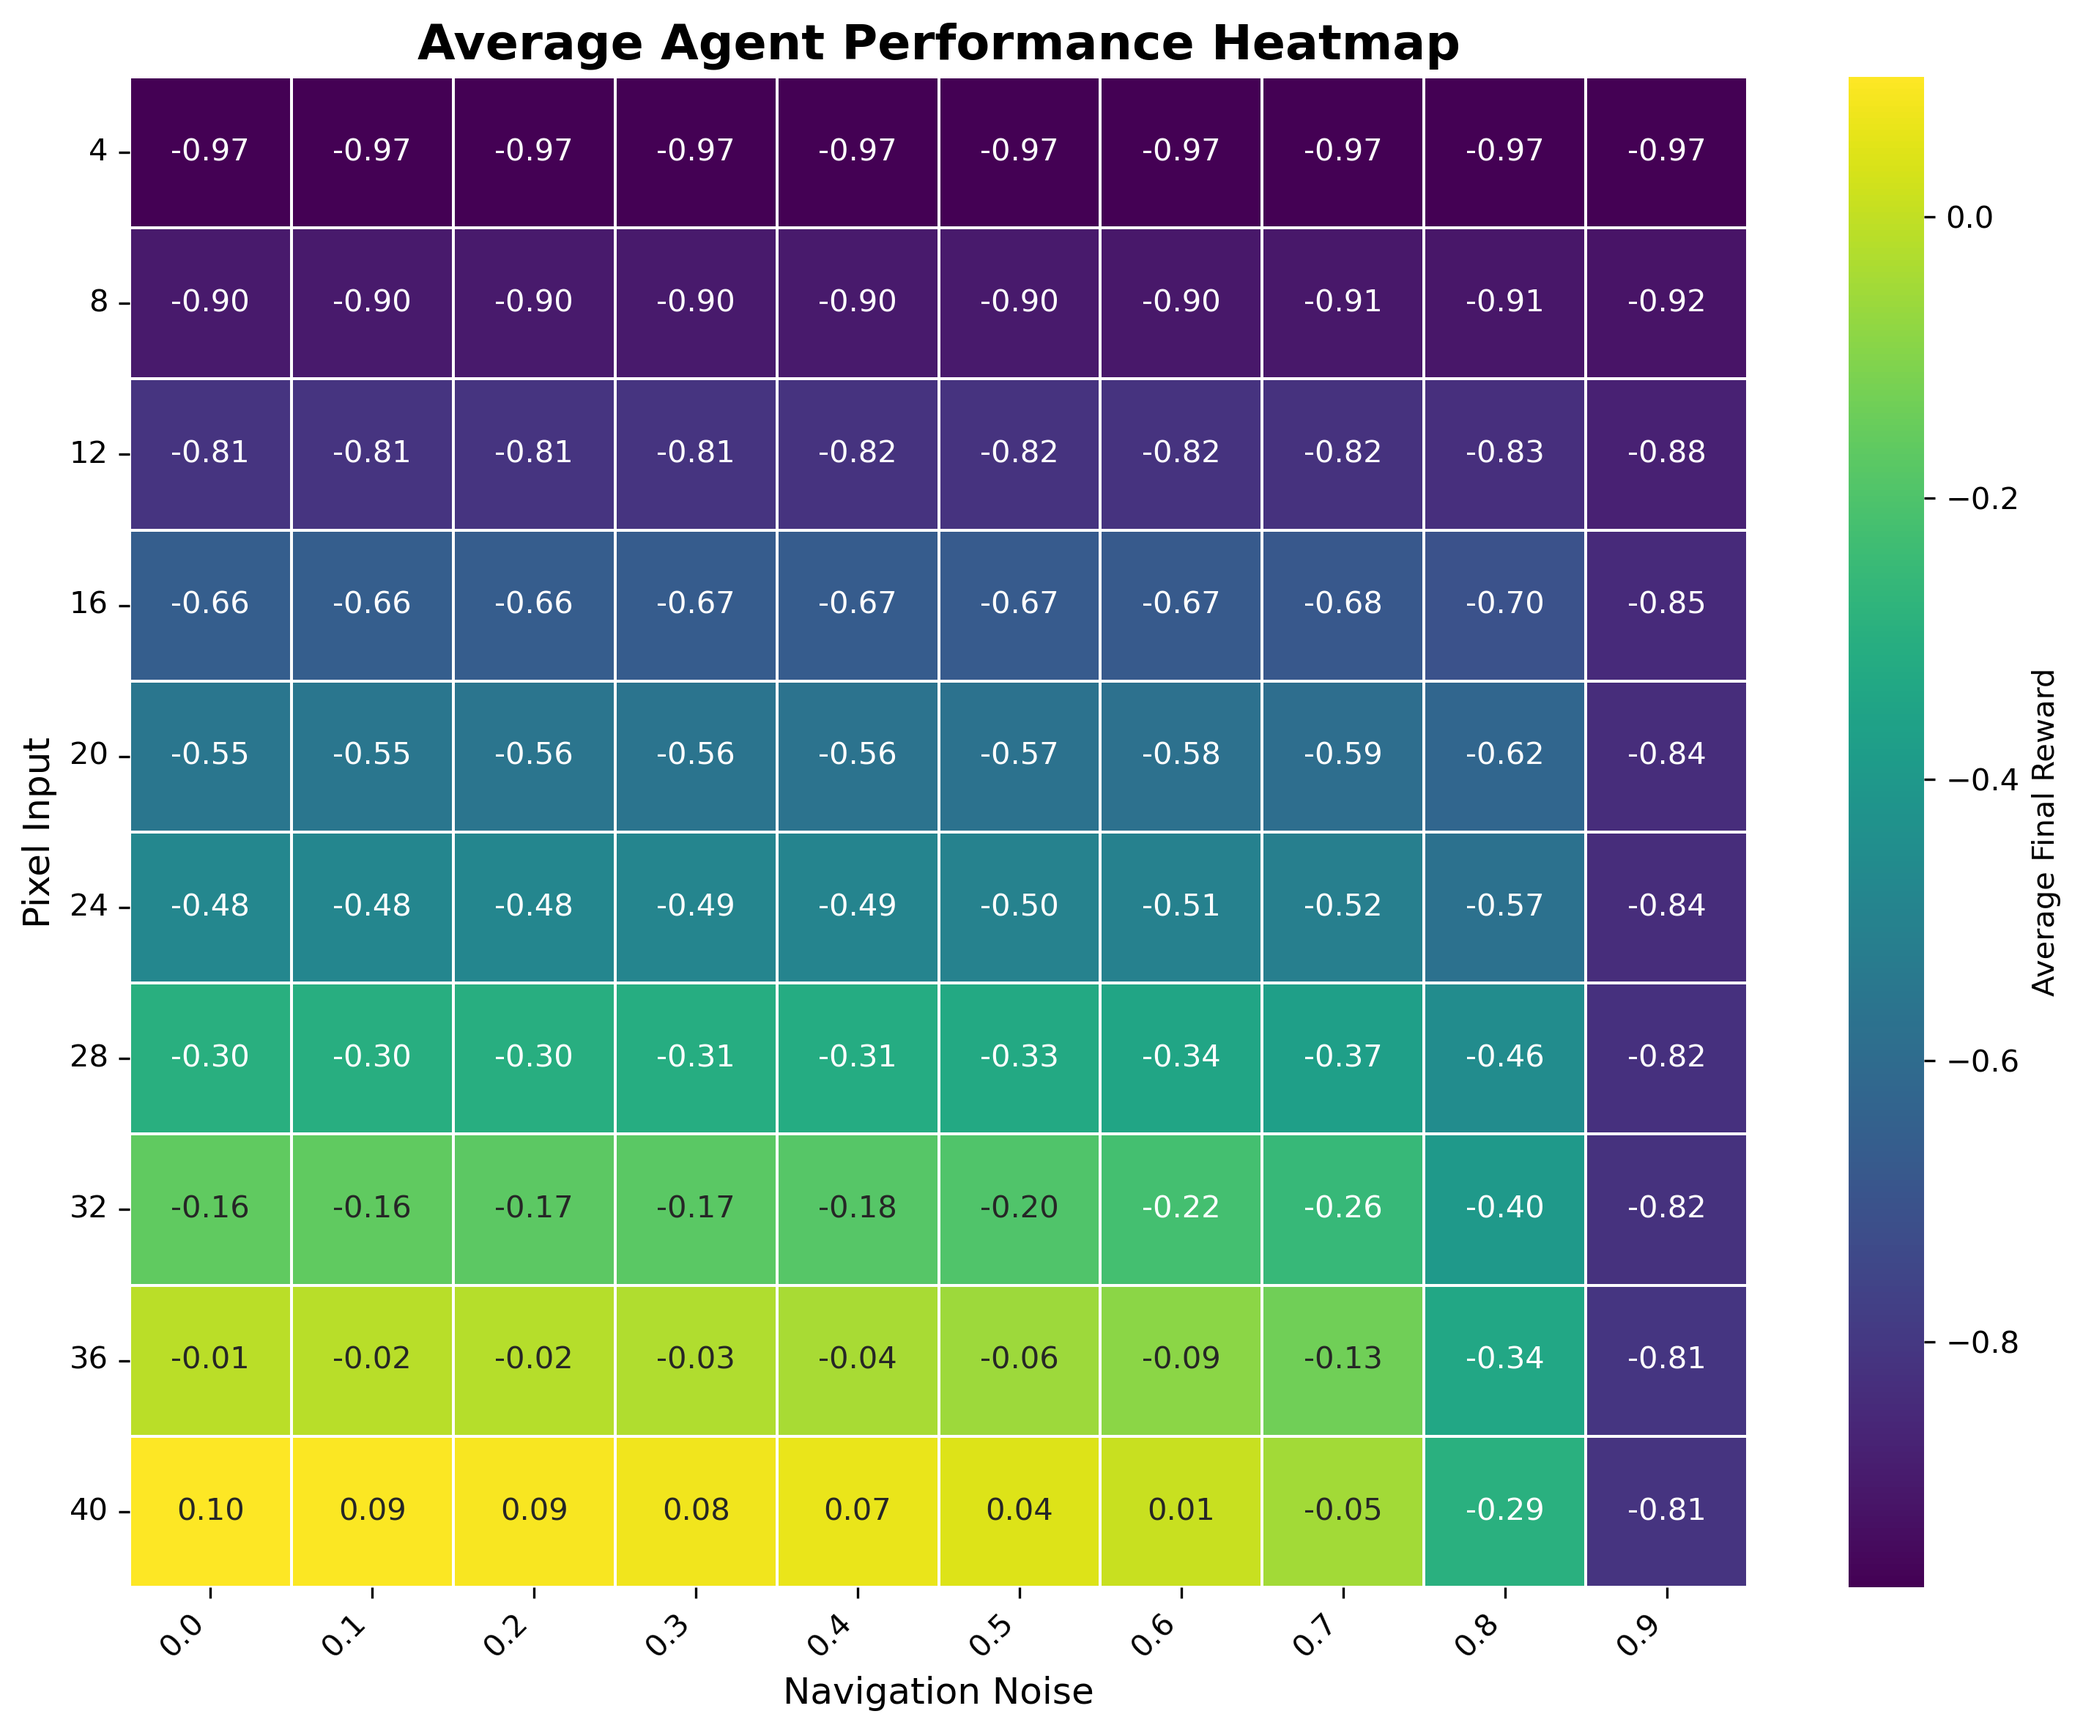
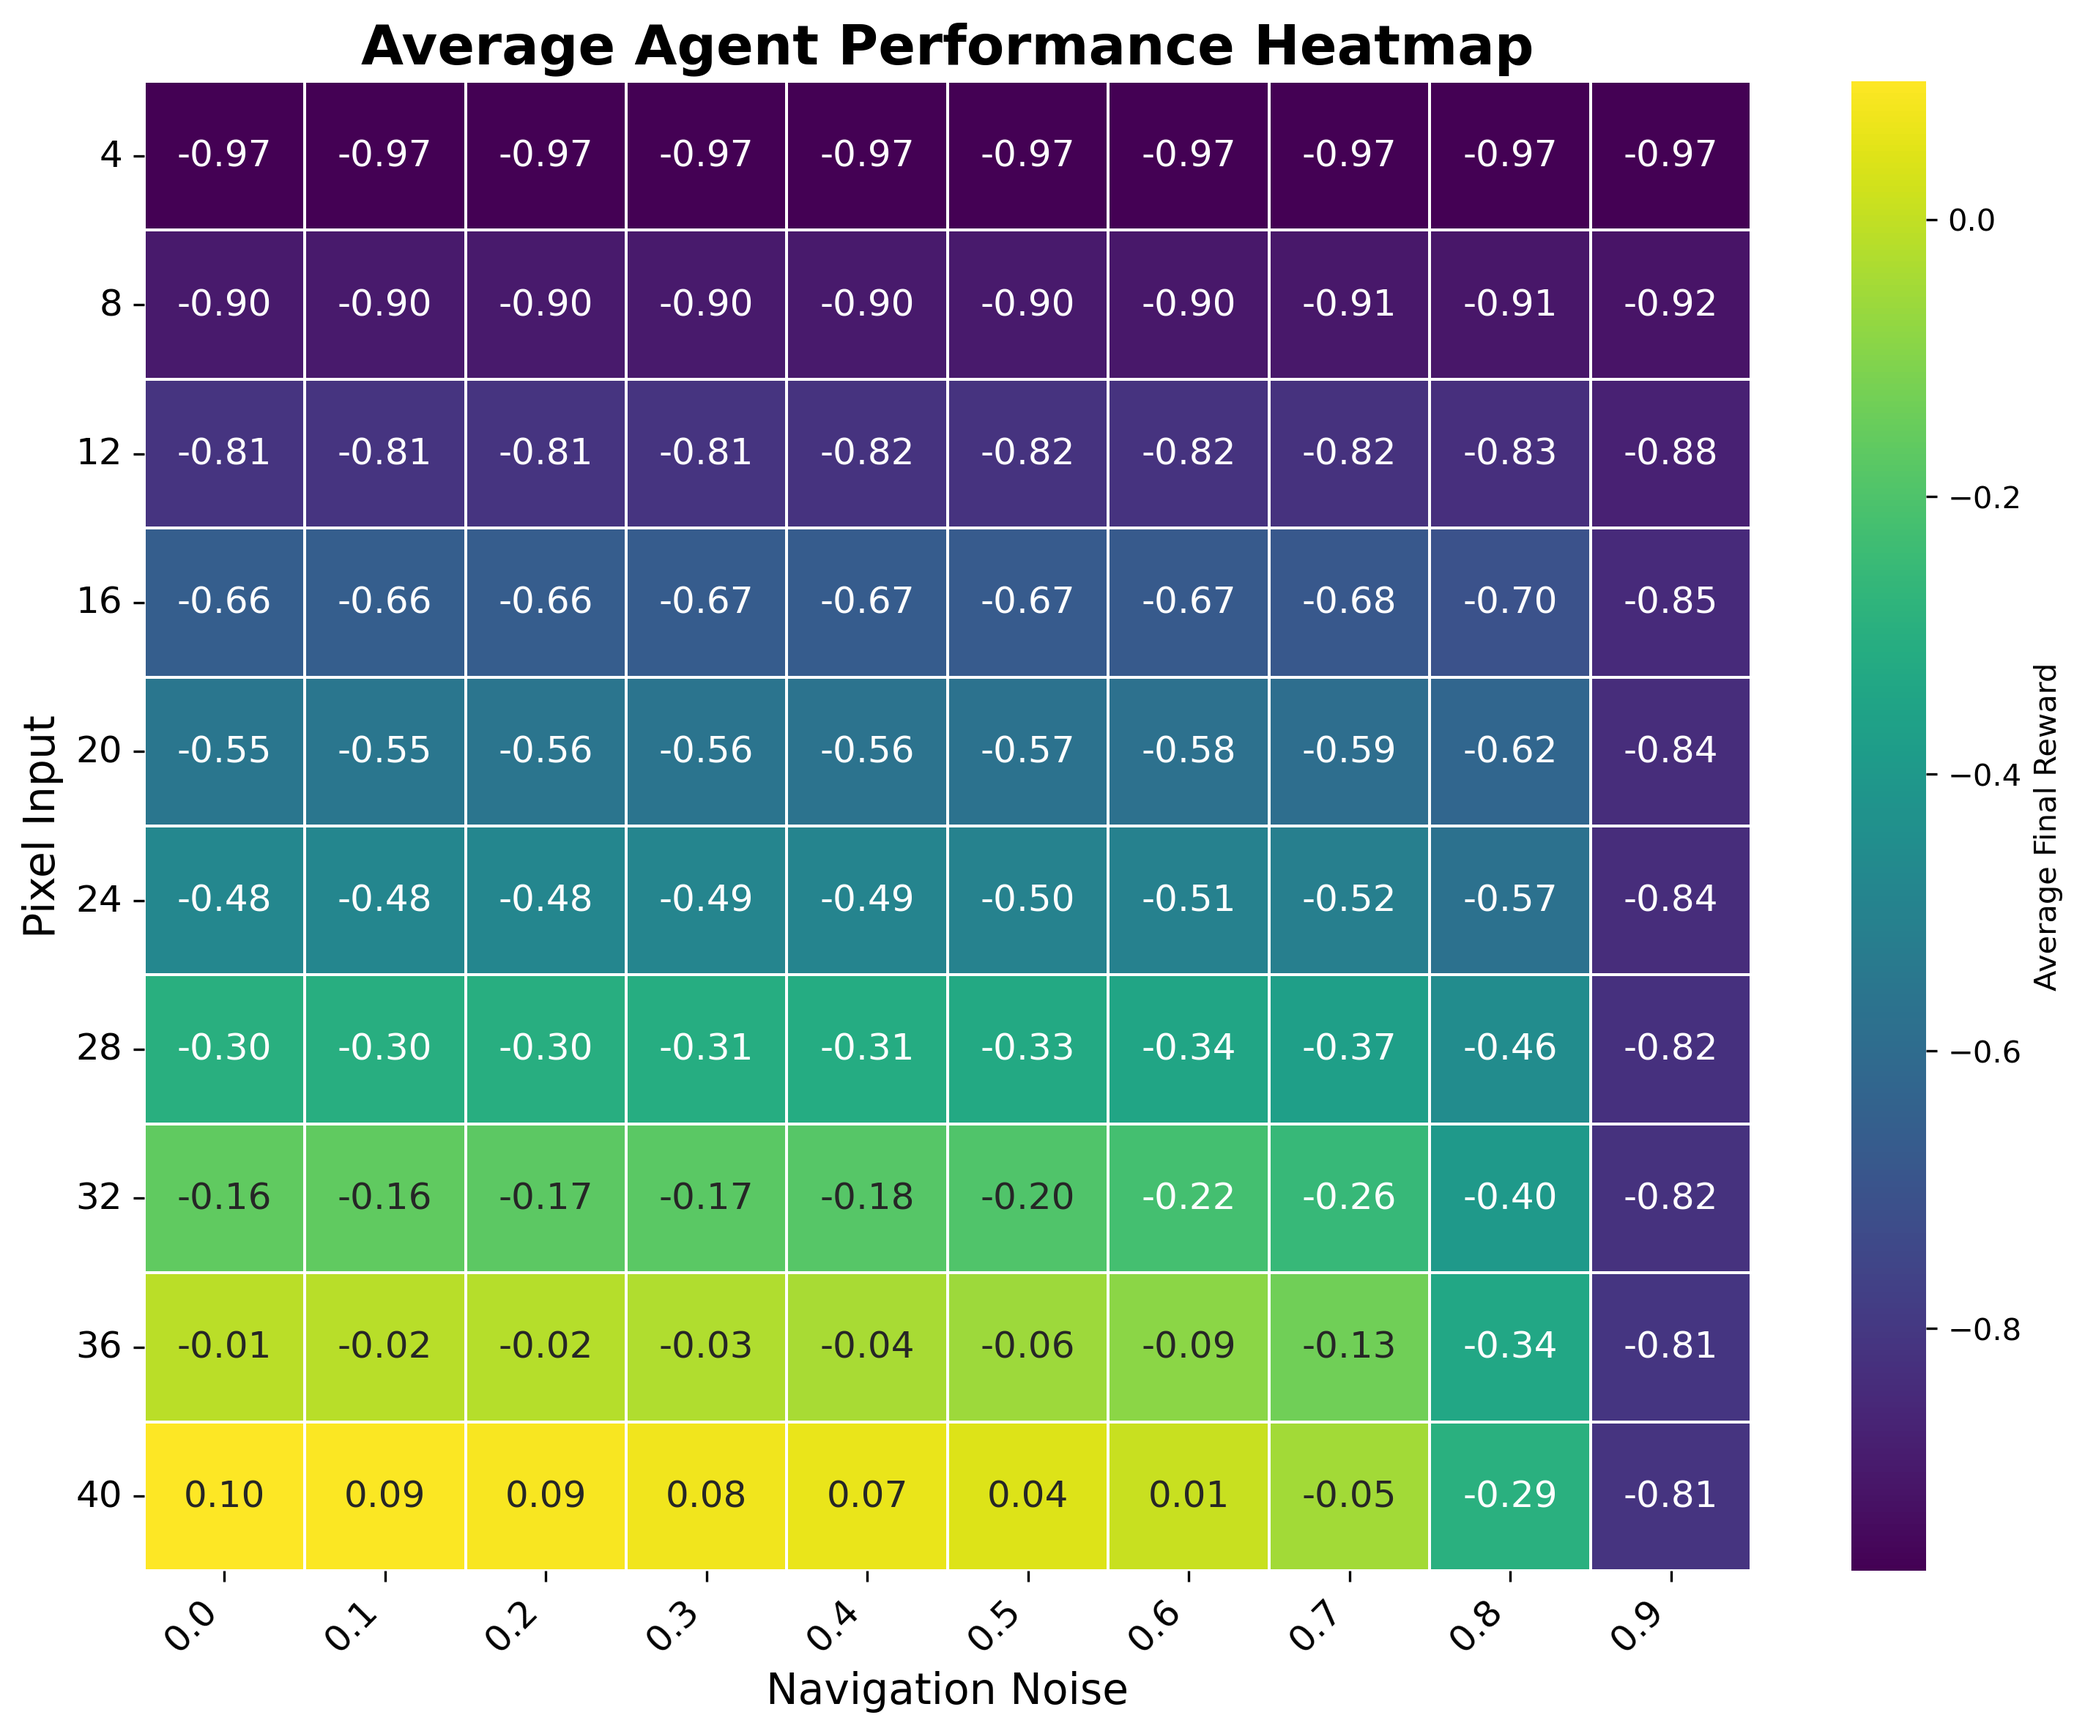
Add different font sizes

diff --git a/basic_measurement_layout/plotting.py b/basic_measurement_layout/plotting.py
@@ -135,88 +135,58 @@ def create_performance_grid(df, save_path=None):
     # return fig
 
 def create_performance_heatmap(df, save_path=None):
-    """
-    Create a heatmap showing the average finalReward for each combination 
-    of pixelInput and navigationNoise.
-    """
     if df is None or df.empty:
         print("DataFrame is empty. Cannot create heatmap.")
         return None
 
-    # Calculate the average finalReward for each combination of pixelInput and navigationNoise
     average_performance = df.groupby(['pixelInput', 'navigationNoise'])['finalReward'].mean().reset_index()
-
-    # Pivot the table to prepare data for the heatmap
-    # pixelInput will be rows (index), navigationNoise will be columns, values will be average finalReward
     heatmap_data = average_performance.pivot(index='pixelInput', columns='navigationNoise', values='finalReward')
 
-    # Create the heatmap
     plt.figure(figsize=(10, 8))
-    sns.heatmap(heatmap_data, annot=True, fmt=".2f", cmap="viridis", linewidths=.5, cbar_kws={'label': 'Average Final Reward'})
-    
-    plt.title('Average Agent Performance Heatmap', fontsize=16, fontweight='bold')
-    plt.xlabel('Navigation Noise', fontsize=12)
-    plt.ylabel('Pixel Input', fontsize=12)
-    plt.xticks(rotation=45, ha='right') # Rotate x-axis labels for better readability
-    plt.yticks(rotation=0) # Keep y-axis labels horizontal
-    
-    plt.tight_layout() # Adjust layout to prevent labels from overlapping
-    
+    sns.heatmap(
+        heatmap_data, annot=True, fmt=".2f", cmap="viridis", linewidths=.5,
+        cbar_kws={'label': 'Average Final Reward'}, annot_kws={"fontsize": 12}
+    )
+
+    plt.title('Average Agent Performance Heatmap', fontsize=18, fontweight='bold')
+    plt.xlabel('Navigation Noise', fontsize=14)
+    plt.ylabel('Pixel Input', fontsize=14)
+    plt.xticks(rotation=45, ha='right', fontsize=12)
+    plt.yticks(rotation=0, fontsize=12)
+
+    plt.tight_layout()
     if save_path:
         plt.savefig(save_path, dpi=300, bbox_inches='tight')
         print(f"Heatmap saved to: {save_path}")
-        
-    # plt.show()
-    
-    # return plt.gcf() # Return the current figure
 
 def create_brier_score_plot(save_path=None):
-    # Load the CSV data into a pandas DataFrame
     df = pd.read_csv("measurement_layout_results.csv")
-
-    # Define the x and y data for plotting
     x_data = df['meanSuccessAll']
     y_model_brier = df['modelBrier']
     y_agg_brier = df['aggBrier']
 
-    # Create the plot
-    plt.figure(figsize=(8, 6)) # Set figure size for better readability
-
-    # Plot 'Model' Brier scores
+    plt.figure(figsize=(8, 6))
     plt.scatter(x_data, y_model_brier, label='Model', color='tab:blue', zorder=2)
-
-    # Plot 'Aggregate' Brier scores
     plt.scatter(x_data, y_agg_brier, label='Aggregate', color='tab:orange', zorder=2)
 
-    # Generate y-values for the trend line using the polynomial function
-    # Use a denser range of x-values for a smooth curve
     x_trend = np.linspace(0, 1, 500)
     y_expected_brier = x_trend * (1 - x_trend)
-
-    # Plot the theoretical Brier score trend line
     plt.plot(x_trend, y_expected_brier, color='orange', linestyle='--', label='_nolegend_', zorder=1)
 
-    # Add labels and title
-    plt.xlabel('Success Rate')
-    plt.ylabel('Brier Score')
-    plt.title('Brier Score vs. Success Rate')
-
-    # Add a legend to distinguish the data series
-    plt.legend()
+    plt.xlabel('Success Rate', fontsize=14)
+    plt.ylabel('Brier Score', fontsize=14)
+    plt.title('Brier Score vs. Success Rate', fontsize=18)
+    plt.xticks(fontsize=12)
+    plt.yticks(fontsize=12)
+    plt.legend(fontsize=12)
 
     plt.grid(False)
-
-    # Set x and y axis limits as requested
     plt.xlim(0, 1)
     plt.ylim(0, 0.25)
 
-    # Display the plot
-    # plt.show()
-
     if save_path:
         plt.savefig(save_path, dpi=300, bbox_inches='tight')
-    
-    # return plt.gcf() # Return the current figure
+
 
 def create_ability_plot(save_path=None):
     # Load the CSV data into a pandas DataFrame
